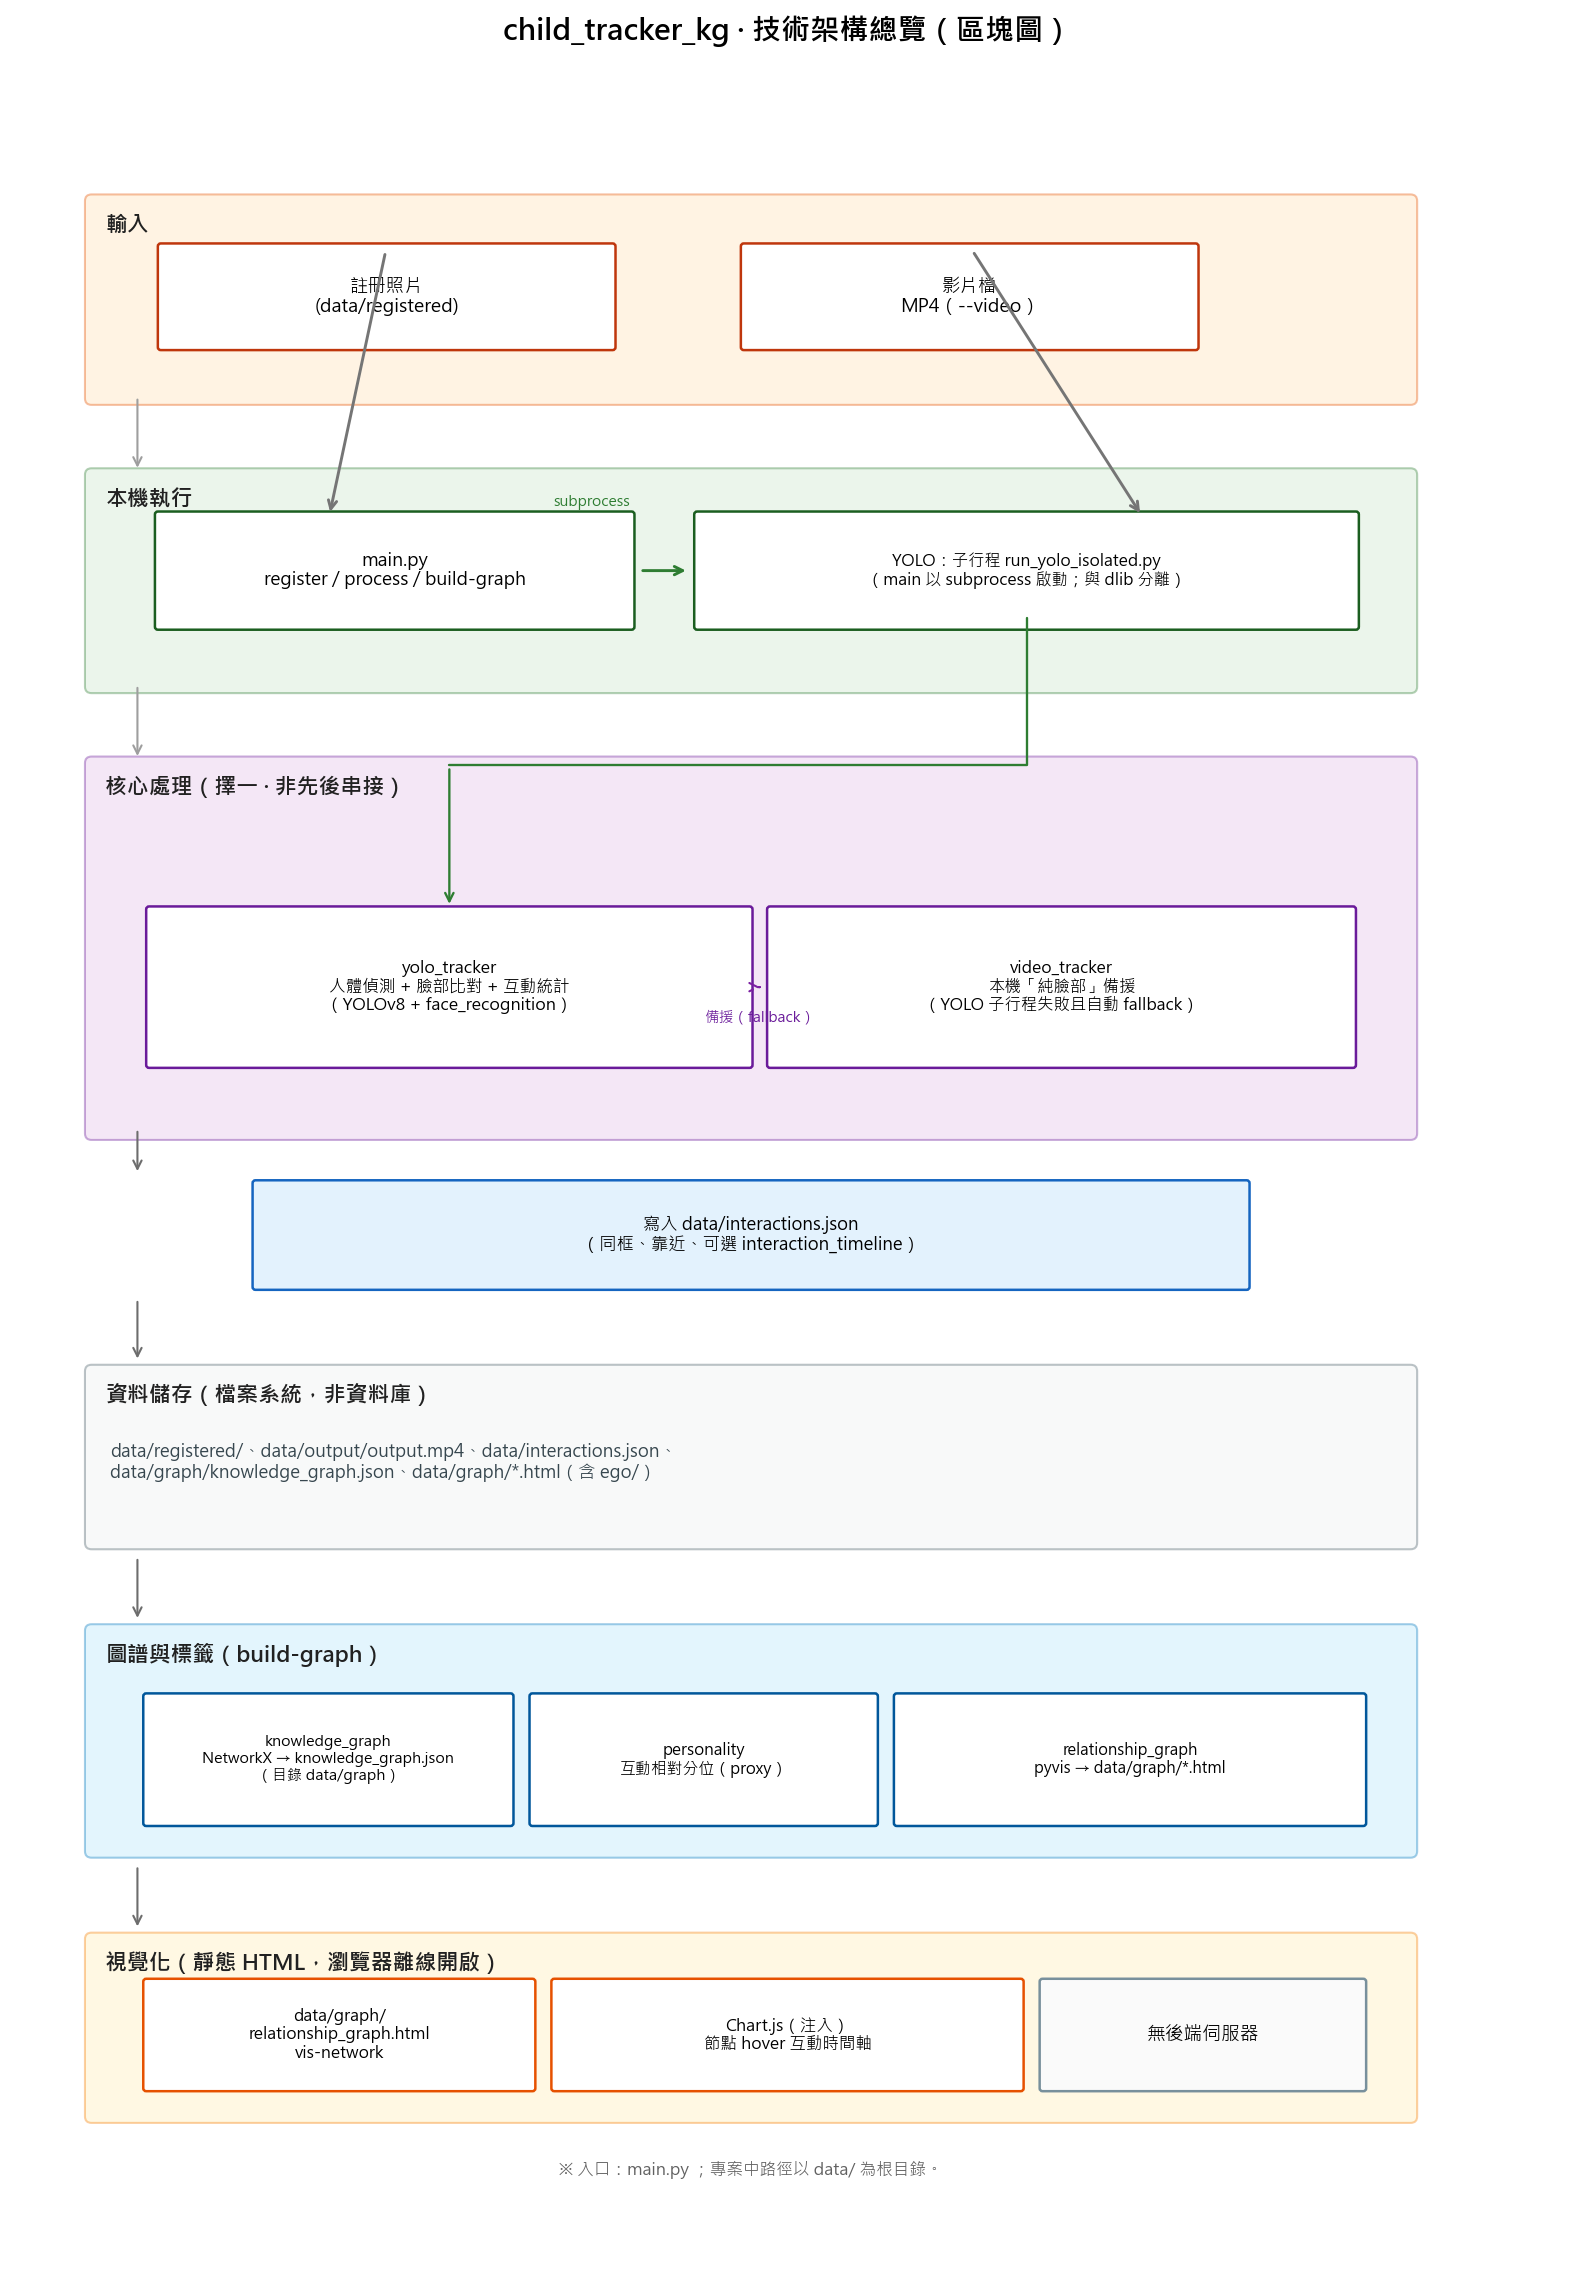
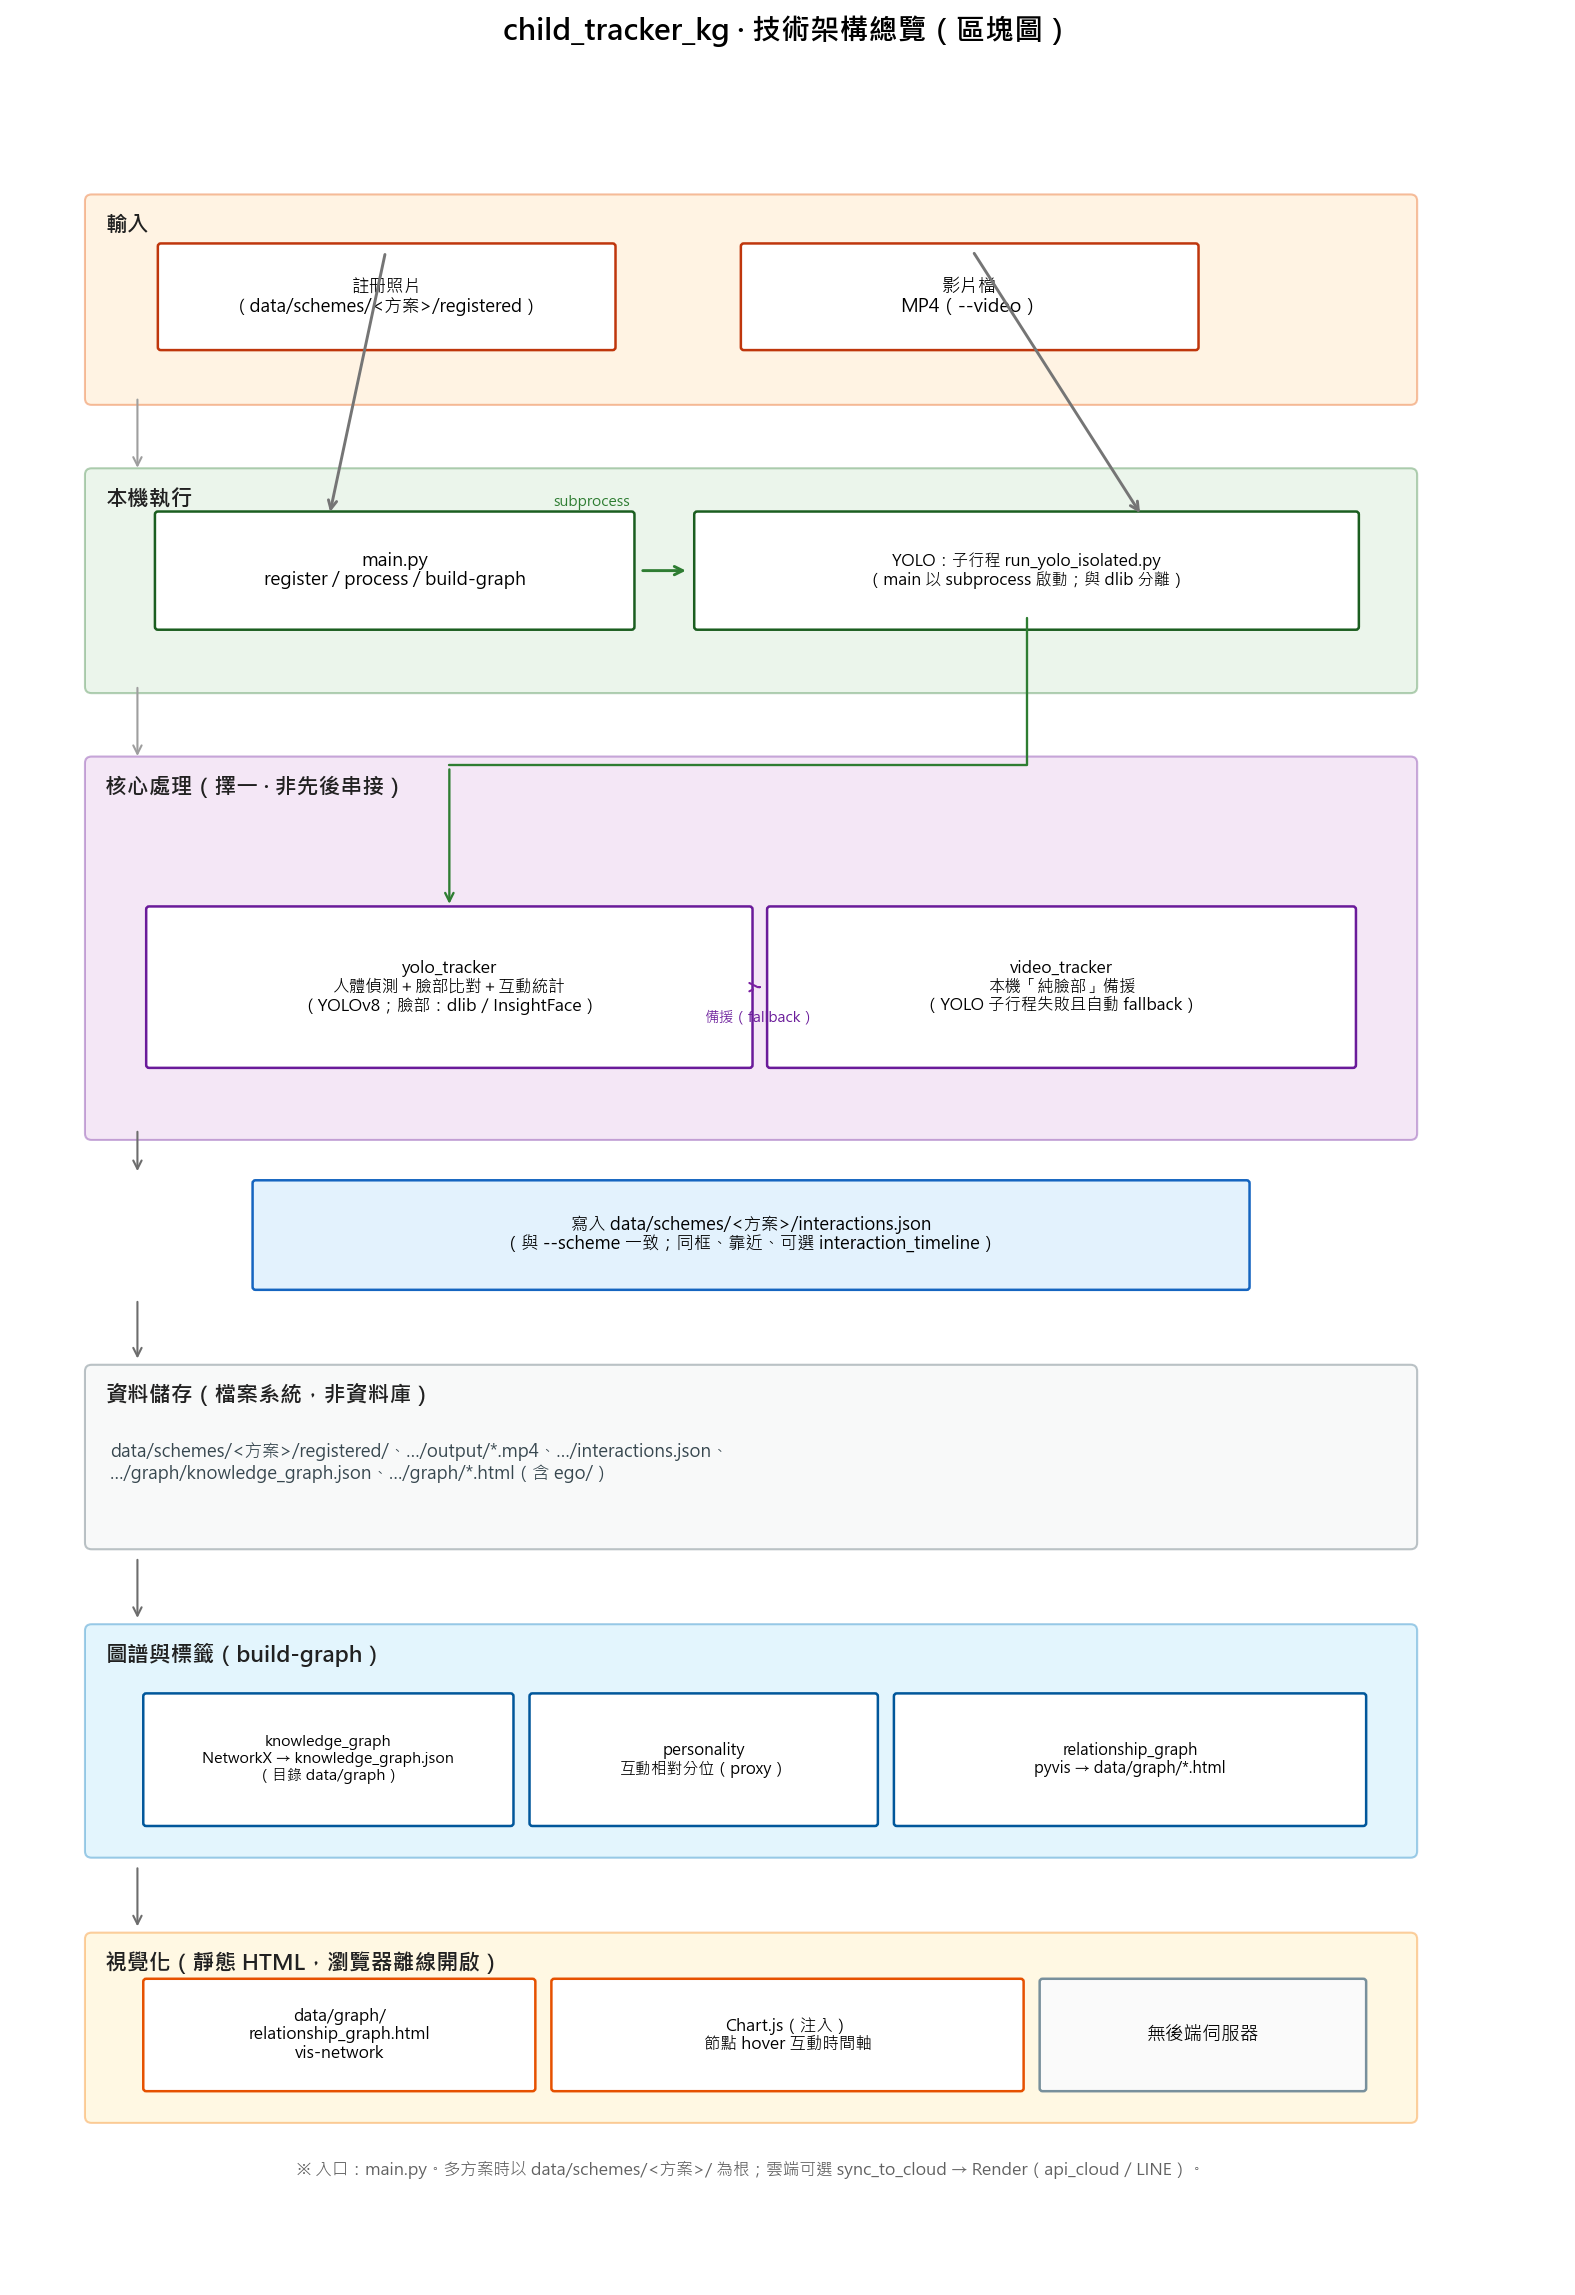
docs(figures): scheme paths, TW labels, cloud note; script to refresh Word docx
Made-with: Cursor

diff --git a/scripts/update_technical_docx_zh_figures.py b/scripts/update_technical_docx_zh_figures.py
@@ -1,0 +1,131 @@
+# -*- coding: utf-8 -*-
+"""更新桌面「技術搞2.docx」：內嵌架構圖換成最新 PNG，並將正文／表格轉成臺灣繁體。
+
+依賴：pip install python-docx zhconv
+圖檔：先執行 python docs/figures/render_architecture_png.py
+
+若 Word 正在開啟該檔，會寫入 %TEMP%\\技術搞2_已更新.docx，請關閉 Word 後手動覆蓋。
+"""
+from __future__ import annotations
+
+import os
+import shutil
+import subprocess
+import sys
+import tempfile
+import zipfile
+from pathlib import Path
+
+try:
+    import zhconv
+except ImportError:
+    print("請先執行: pip install zhconv", file=sys.stderr)
+    raise SystemExit(1)
+
+from docx import Document
+
+def _find_desktop_tech_docx() -> Path | None:
+    """Windows 下 Path.glob 對部分中文路徑不可靠時，改由 PowerShell 回傳 UTF-8 路徑。"""
+    home = Path.home()
+    for p in home.glob("OneDrive*/Desktop/\u6280\u8853\u641e2.docx"):
+        if p.is_file():
+            try:
+                if p.stat().st_size > 0:
+                    return p
+            except OSError:
+                continue
+    ps = (
+        "Get-ChildItem -LiteralPath (Join-Path $env:USERPROFILE (Get-ChildItem "
+        "$env:USERPROFILE\\OneDrive* | Select-Object -First 1 | ForEach-Object { $_.Name })\\Desktop "
+        "-Filter '*.docx' -ErrorAction SilentlyContinue | "
+        "Where-Object { $_.Name -eq \"\u6280\u8853\u641e2.docx\" } | "
+        "Select-Object -ExpandProperty FullName"
+    )
+    try:
+        cp = subprocess.run(
+            ["powershell", "-NoProfile", "-Command", ps],
+            capture_output=True,
+            text=True,
+            encoding="utf-8",
+            errors="replace",
+            timeout=30,
+        )
+        out = (cp.stdout or "").strip()
+        if out and Path(out).is_file():
+            return Path(out)
+    except (OSError, subprocess.TimeoutExpired):
+        pass
+    return None
+
+
+def _to_tw(text: str) -> str:
+    if not text or not text.strip():
+        return text
+    return zhconv.convert(text, "zh-tw")
+
+
+def _apply_tw_doc(doc: Document) -> None:
+    for p in doc.paragraphs:
+        if p.text.strip():
+            p.text = _to_tw(p.text)
+    for tbl in doc.tables:
+        for row in tbl.rows:
+            for cell in row.cells:
+                if cell.text.strip():
+                    cell.text = _to_tw(cell.text)
+
+
+def main() -> int:
+    root = Path(__file__).resolve().parents[1]
+    arch = root / "docs" / "figures" / "architecture_overview.png"
+    seq = root / "docs" / "figures" / "dataflow_sequence.png"
+    if not arch.is_file() or not seq.is_file():
+        print("找不到 PNG，請先執行: python docs/figures/render_architecture_png.py", file=sys.stderr)
+        return 1
+
+    target = _find_desktop_tech_docx()
+    if target is None:
+        print("找不到桌面 技術搞2.docx", file=sys.stderr)
+        return 1
+
+    # 先複製到僅 ASCII 路徑再開啟，避免部分環境下 python-docx 對中文路徑解包失敗
+    work_dir = Path(tempfile.mkdtemp(prefix="docx_tw_"))
+    src_ascii = work_dir / "source.docx"
+    shutil.copy2(target, src_ascii)
+
+    tmp_doc = work_dir / "patched.docx"
+    doc = Document(str(src_ascii))
+    _apply_tw_doc(doc)
+    doc.save(str(tmp_doc))
+
+    b1 = arch.read_bytes()
+    b2 = seq.read_bytes()
+    out_buf = Path(tempfile.mktemp(suffix=".docx"))
+    with zipfile.ZipFile(tmp_doc, "r") as zin:
+        with zipfile.ZipFile(out_buf, "w", zipfile.ZIP_DEFLATED) as zout:
+            for item in zin.infolist():
+                data = zin.read(item.filename)
+                if item.filename == "word/media/image1.png":
+                    data = b1
+                elif item.filename == "word/media/image2.png":
+                    data = b2
+                zout.writestr(item, data)
+
+    try:
+        shutil.copy2(out_buf, target)
+        print("已更新:", target)
+    except OSError as e:
+        fallback = Path(os.environ["TEMP"]) / "tech2_docx_updated.docx"
+        shutil.copy2(out_buf, fallback)
+        print("無法直接覆寫（可能 Word 仍開著原檔）。已寫入:", fallback)
+        print("錯誤:", e)
+        return 2
+    finally:
+        shutil.rmtree(work_dir, ignore_errors=True)
+        out_buf.unlink(missing_ok=True)
+
+    return 0
+
+
+if __name__ == "__main__":
+    raise SystemExit(main())

diff --git a/docs/figures/render_architecture_png.py b/docs/figures/render_architecture_png.py
@@ -132,7 +132,16 @@ def draw_architecture():
     h1 = 1.42
     y_hi1, y_lo1 = zone(y_hi1, h1, "輸入", "#FFE0B2", "#E65100")
     y_in = y_lo1 + 0.38
-    _box(ax, (LM + 0.5, y_in), 3.1, 0.7, "註冊照片\n(data/registered)", "#FFFFFF", "#BF360C", 8.8)
+    _box(
+        ax,
+        (LM + 0.5, y_in),
+        3.1,
+        0.7,
+        "註冊照片\n（data/schemes/<方案>/registered）",
+        "#FFFFFF",
+        "#BF360C",
+        8.4,
+    )
     _box(ax, (LM + 4.5, y_in), 3.1, 0.7, "影片檔\nMP4（--video）", "#FFFFFF", "#BF360C", 8.8)
 
     y_hi2 = y_lo1 - SEP_ZONE
@@ -176,7 +185,7 @@ def draw_architecture():
         (yolo_l, y_tr),
         yolo_w,
         bh_tr,
-        "yolo_tracker\n人體偵測 + 臉部比對 + 互動統計\n（YOLOv8 + face_recognition）",
+        "yolo_tracker\n人體偵測＋臉部比對＋互動統計\n（YOLOv8；臉部：dlib／InsightFace）",
         "#FFFFFF",
         "#6A1B9A",
         8.0,
@@ -241,7 +250,7 @@ def draw_architecture():
         (LM + 1.15, y_box),
         W - 2.3,
         box_h,
-        "寫入 data/interactions.json\n（同框、靠近、可選 interaction_timeline）",
+        "寫入 data/schemes/<方案>/interactions.json\n（與 --scheme 一致；同框、靠近、可選 interaction_timeline）",
         "#E3F2FD",
         "#1565C0",
         8.3,
@@ -253,8 +262,8 @@ def draw_architecture():
     ax.text(
         LM + 0.15,
         y_hi_st - 0.52,
-        "data/registered/、data/output/output.mp4、data/interactions.json、\n"
-        "data/graph/knowledge_graph.json、data/graph/*.html（含 ego/）",
+        "data/schemes/<方案>/registered/、…/output/*.mp4、…/interactions.json、\n"
+        "…/graph/knowledge_graph.json、…/graph/*.html（含 ego/）",
         fontsize=8.35,
         color="#37474F",
         va="top",
@@ -289,7 +298,7 @@ def draw_architecture():
     ax.text(
         cx,
         max(0.42, foot_y),
-        "※ 入口：main.py ；專案中路徑以 data/ 為根目錄。",
+        "※ 入口：main.py。多方案時以 data/schemes/<方案>/ 為根；雲端可選 sync_to_cloud → Render（api_cloud／LINE）。",
         ha="center",
         fontsize=8,
         color="#616161",
@@ -318,7 +327,7 @@ def draw_sequence():
         (1.15, "使用者"),
         (2.75, "main.py"),
         (4.35, "註冊 / 追蹤\n模組"),
-        (6.05, "interactions.json"),
+        (6.05, "interactions.json\n（各方案子目錄內）"),
         (7.85, "knowledge_graph\n+ pyvis"),
         (10.15, "HTML"),
     ]
